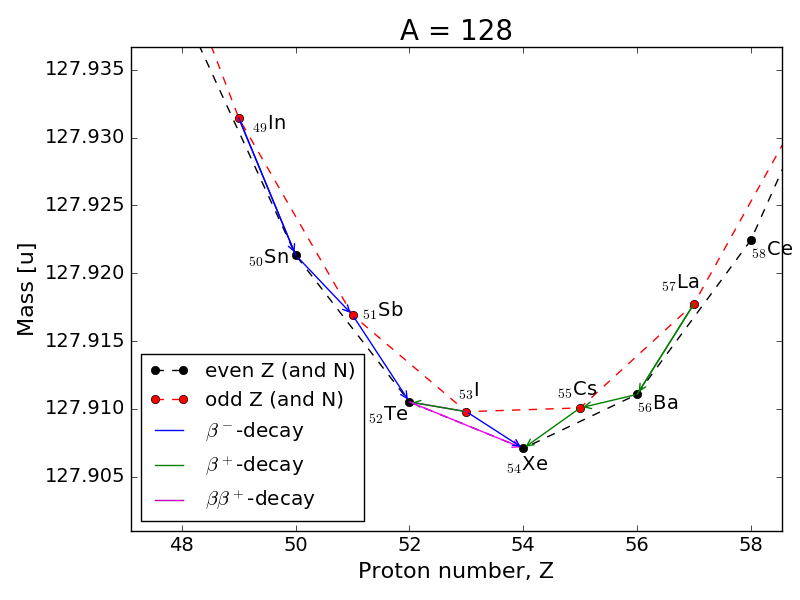
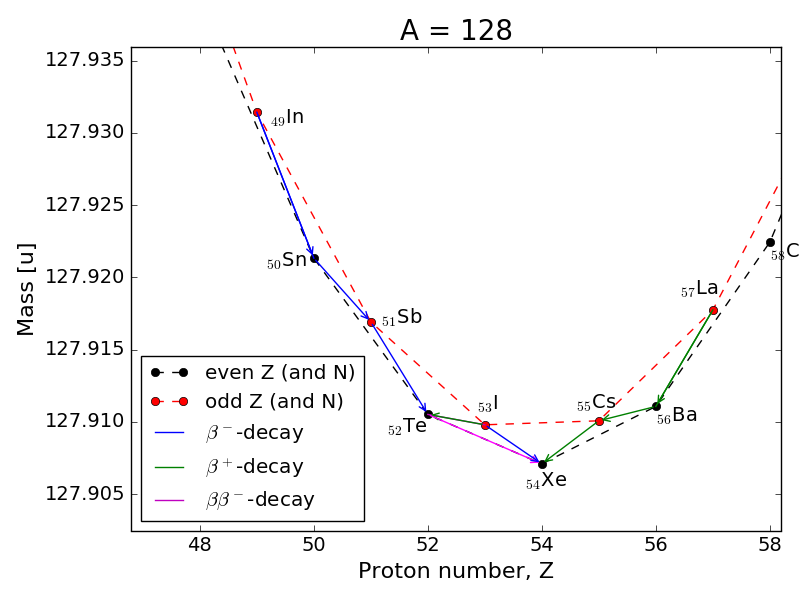
Added a new figure and some minor changes in the other plots

diff --git a/Home exam/ex2d-A128.py b/Home exam/ex2d-A128.py
@@ -83,7 +83,7 @@ annotate('', xy=(56, 127.911065318), xycoords="data", xytext=(57, 127.917747210)
 title("A = %g" %A, fontsize=20)
 xlabel("Proton number, Z", fontsize=16)
 ylabel("Mass [u]", fontsize=16)
-legend(["even Z (and N)", "odd Z (and N)", r"$\beta^-$-decay", r"$\beta^+$-decay", r"$\beta\beta^+$-decay"], loc=0)
+legend(["even Z (and N)", "odd Z (and N)", r"$\beta^-$-decay", r"$\beta^+$-decay", r"$\beta\beta^-$-decay"], loc=0)
 tick_params(labelsize=14)
 ax = gca()
 ax.get_yaxis().get_major_formatter().set_useOffset(False) # Preventing offset of y-axis
